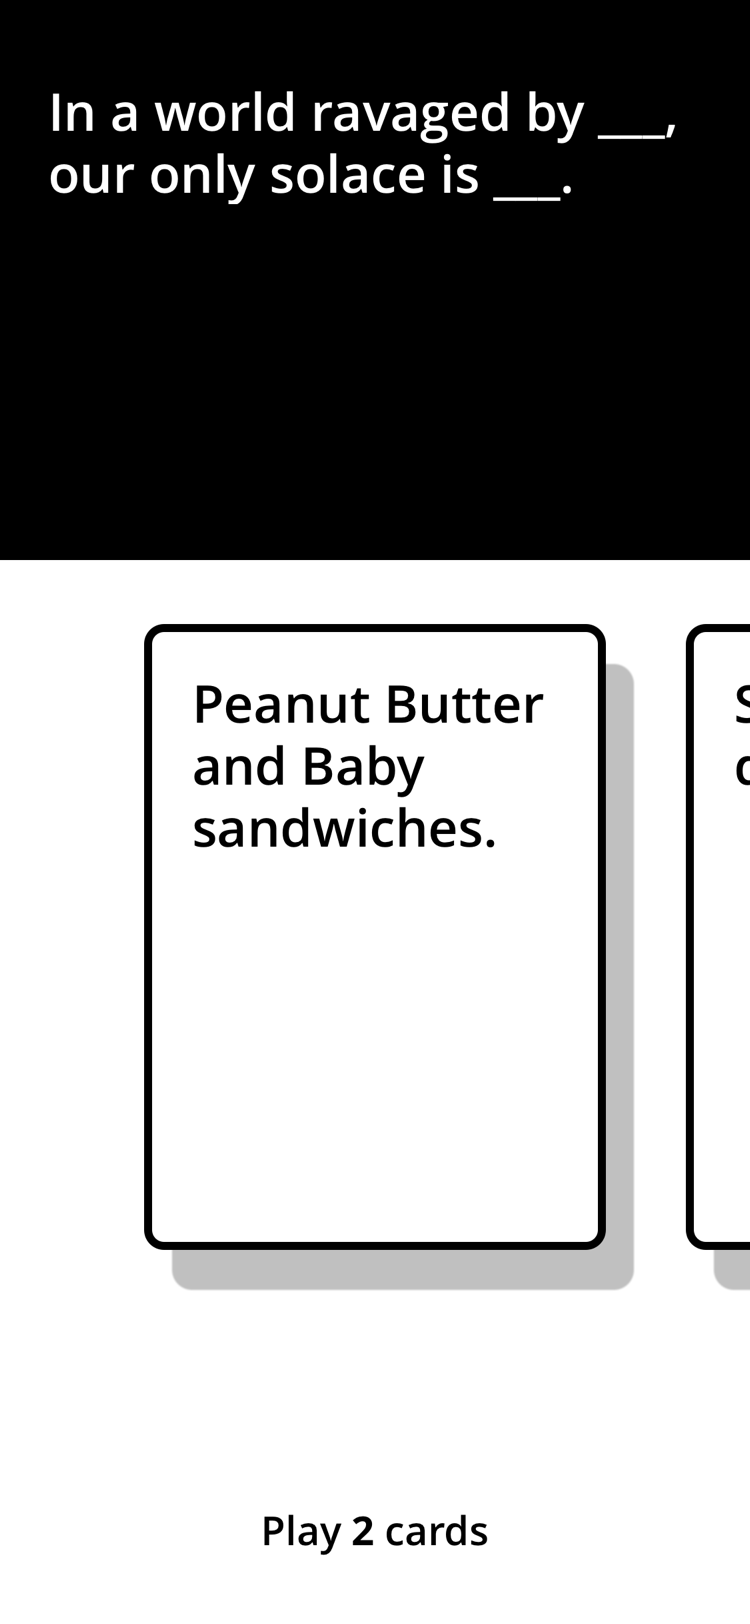
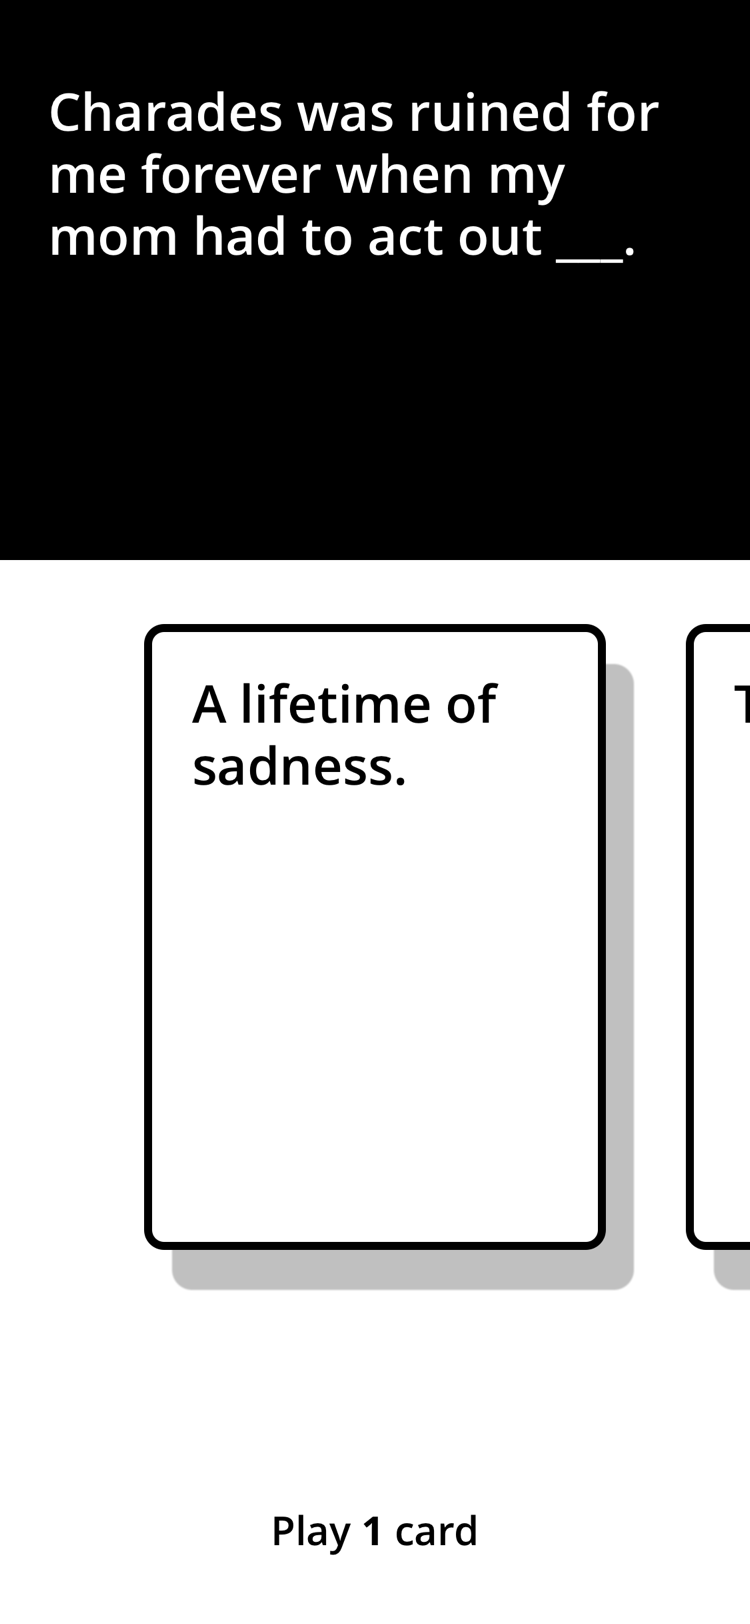
add to git ignore

diff --git a/Cards Against Humanity.framer/framer/framer.vekter.js b/Cards Against Humanity.framer/framer/framer.vekter.js
@@ -1,1 +1,1 @@
-(function(scope) {var GameScreen = new Layer({"name":"GameScreen","backgroundColor":"rgba(255,255,255,1)","width":375,"x":840,"height":812,"constraintValues":{"left":840,"height":812,"heightFactor":1,"width":375,"widthFactor":1},"blending":"normal","clip":true,"borderStyle":"solid"});var blackCard = new Layer({"parent":GameScreen,"name":"blackCard","backgroundColor":"#000000","width":375,"height":280,"constraintValues":{"height":280,"centerAnchorX":0.5,"width":375,"right":0,"centerAnchorY":0.17241379310344829},"blending":"normal","clip":false,"borderStyle":"solid"});var __layer_0__ = new TextLayer({"parent":blackCard,"backgroundColor":null,"width":327,"x":24,"styledText":{"blocks":[{"inlineStyles":[{"css":{"fontSize":"26px","WebkitTextFillColor":"hsl(0, 0%, 100%)","letterSpacing":"0px","fontWeight":600,"lineHeight":"1.2","tabSize":4,"fontFamily":"\"OpenSans-Semibold\", \"Open Sans\", sans-serif"},"startIndex":0,"endIndex":9}],"text":"Card Text"}]},"height":216,"constraintValues":{"left":24,"height":216,"centerAnchorX":0.5,"width":327,"right":24,"top":40,"centerAnchorY":0.51071428571428568},"blending":"normal","autoSize":false,"y":40});var playCardsText = new TextLayer({"parent":GameScreen,"name":"playCardsText","backgroundColor":null,"width":335,"x":20,"styledText":{"blocks":[{"inlineStyles":[{"startIndex":0,"endIndex":5,"css":{"fontSize":"20px","WebkitTextFillColor":"#000000","letterSpacing":"0px","fontWeight":600,"lineHeight":"1.2","tabSize":4,"fontFamily":"\"OpenSans-Semibold\", \"Open Sans\", sans-serif"}},{"startIndex":5,"endIndex":15,"css":{"fontSize":"20px","WebkitTextFillColor":"#000000","letterSpacing":"0px","fontWeight":700,"lineHeight":"1.2","tabSize":4,"fontFamily":"\"OpenSans-Bold\", \"Open Sans\", sans-serif"}},{"startIndex":15,"endIndex":25,"css":{"fontSize":"20px","WebkitTextFillColor":"#000000","letterSpacing":"0px","fontWeight":600,"lineHeight":"1.2","tabSize":4,"fontFamily":"\"OpenSans-Semibold\", \"Open Sans\", sans-serif"}}],"text":"Play {numCards} card{plu}"}],"alignment":"center"},"height":24,"constraintValues":{"left":20,"height":24,"centerAnchorX":0.5,"width":335,"bottom":35,"right":20,"top":null,"centerAnchorY":0.94211822660098521},"blending":"normal","autoSize":false,"y":753});var ActionButton = new Layer({"parent":GameScreen,"name":"ActionButton","backgroundColor":"rgb(0, 0, 0)","width":335,"x":20,"height":54,"constraintValues":{"left":20,"height":54,"centerAnchorX":0.5,"width":335,"bottom":20,"right":20,"top":null,"centerAnchorY":0.94211822660098521},"blending":"normal","borderRadius":16,"opacity":0,"clip":false,"borderStyle":"solid","y":738});var __layer_1__ = new TextLayer({"parent":ActionButton,"backgroundColor":null,"width":68,"x":133,"styledText":{"blocks":[{"inlineStyles":[{"css":{"fontSize":"20px","WebkitTextFillColor":"hsl(0, 0%, 100%)","whiteSpace":"pre","fontWeight":600,"letterSpacing":"0px","tabSize":4,"fontFamily":"\"OpenSans-Semibold\", \"Open Sans\", sans-serif","lineHeight":"1.2"},"startIndex":0,"endIndex":6}],"text":"Button"}],"alignment":"center"},"height":24,"constraintValues":{"left":null,"height":24,"centerAnchorX":0.49850746268656715,"width":68,"top":null,"centerAnchorY":0.5},"blending":"normal","autoSize":true,"y":15});var __layer_2__ = new Layer({"backgroundColor":"rgba(255,255,255,1)","width":231,"x":492,"height":313,"constraintValues":null,"blending":"normal","clip":true,"borderStyle":"solid"});var whiteCard = new Layer({"parent":__layer_2__,"name":"whiteCard","shadows":[{"spread":0,"x":14,"type":"box","y":20,"blur":1,"color":"rgba(0,0,0,0.25)"}],"borderWidth":4,"backgroundColor":"hsl(0, 0%, 100%)","width":231,"borderColor":"#000000","height":313,"constraintValues":{"height":313,"centerAnchorX":0.5,"width":231,"bottom":0,"right":0,"centerAnchorY":0.5},"blending":"normal","borderRadius":10,"clip":false,"borderStyle":"solid"});var __layer_3__ = new TextLayer({"parent":whiteCard,"backgroundColor":null,"width":183,"x":24,"styledText":{"blocks":[{"inlineStyles":[{"css":{"fontSize":"26px","WebkitTextFillColor":"#000000","letterSpacing":"0px","fontWeight":600,"lineHeight":"1.2","tabSize":4,"fontFamily":"\"OpenSans-Semibold\", \"Open Sans\", sans-serif"},"startIndex":0,"endIndex":9}],"text":"Card Text"}]},"height":265,"constraintValues":{"left":24,"height":265,"centerAnchorX":0.48917748917748916,"width":183,"bottom":24,"right":24,"top":24,"centerAnchorY":0.48562300319488816},"blending":"normal","autoSize":false,"y":24});var UndoButton = new Layer({"name":"UndoButton","backgroundColor":"#DDDDDD","width":231,"x":492,"height":54,"constraintValues":null,"blending":"normal","borderRadius":16,"clip":false,"borderStyle":"solid","y":344});var __layer_4__ = new TextLayer({"parent":UndoButton,"backgroundColor":null,"width":54,"x":88,"styledText":{"blocks":[{"inlineStyles":[{"css":{"fontSize":"20px","WebkitTextFillColor":"#000000","whiteSpace":"pre","fontWeight":600,"letterSpacing":"0px","tabSize":4,"fontFamily":"\"OpenSans-Semibold\", \"Open Sans\", sans-serif","lineHeight":"1.2"},"startIndex":0,"endIndex":4}],"text":"Undo"}],"alignment":"center"},"height":24,"constraintValues":{"left":null,"height":24,"centerAnchorX":0.49850746268656715,"width":54,"top":null,"centerAnchorY":0.5},"blending":"normal","autoSize":true,"y":15});var setupScreen = new Layer({"name":"setupScreen","backgroundColor":"rgba(255,255,255,1)","width":375,"height":812,"constraintValues":{"height":812,"heightFactor":1,"width":375,"widthFactor":1},"blending":"normal","clip":true,"borderStyle":"solid"});var __layer_5__ = new TextLayer({"parent":setupScreen,"name":"namePromt","backgroundColor":null,"width":197,"x":89,"styledText":{"blocks":[{"inlineStyles":[{"css":{"fontSize":"20px","WebkitTextFillColor":"#000000","whiteSpace":"pre","fontWeight":600,"letterSpacing":"0px","tabSize":4,"fontFamily":"\"OpenSans-Semibold\", \"Open Sans\", sans-serif","lineHeight":"1.2"},"startIndex":0,"endIndex":16}],"text":"Gimme your name…"}],"alignment":"center"},"height":24,"constraintValues":{"left":null,"height":24,"centerAnchorX":0.5,"width":197,"top":111,"centerAnchorY":0.15147783251231528},"blending":"normal","autoSize":true,"y":111});var __layer_6__ = new Layer({"parent":setupScreen,"name":"joinButton","backgroundColor":"rgb(0, 0, 0)","width":335,"x":20,"height":54,"constraintValues":{"left":20,"height":54,"centerAnchorX":0.5,"width":335,"bottom":20,"right":20,"top":null,"centerAnchorY":0.94211822660098521},"blending":"normal","borderRadius":16,"clip":false,"borderStyle":"solid","y":738});var __layer_7__ = new TextLayer({"parent":__layer_6__,"backgroundColor":null,"width":38,"x":148,"styledText":{"blocks":[{"inlineStyles":[{"css":{"fontSize":"20px","WebkitTextFillColor":"hsl(0, 0%, 100%)","whiteSpace":"pre","fontWeight":600,"letterSpacing":"0px","tabSize":4,"fontFamily":"\"OpenSans-Semibold\", \"Open Sans\", sans-serif","lineHeight":"1.2"},"startIndex":0,"endIndex":4}],"text":"Join"}],"alignment":"center"},"height":24,"constraintValues":{"left":null,"height":24,"centerAnchorX":0.49850746268656715,"width":38,"top":null,"centerAnchorY":0.5},"blending":"normal","autoSize":true,"y":15});if(__layer_5__ !== undefined){__layer_5__.__framerInstanceInfo = {"framerClass":"TextLayer","hash":"#vekter|__layer_5__","vekterClass":"TextNode","text":"Gimme your name…"}};if(GameScreen !== undefined){GameScreen.__framerInstanceInfo = {"deviceName":"Apple iPhone X","framerClass":"Layer","hash":"#vekter|GameScreen","targetName":"GameScreen","vekterClass":"FrameNode","deviceType":"apple-iphone-x-space-gray"}};if(whiteCard !== undefined){whiteCard.__framerInstanceInfo = {"framerClass":"Layer","hash":"#vekter|whiteCard","targetName":"whiteCard","vekterClass":"FrameNode"}};if(__layer_7__ !== undefined){__layer_7__.__framerInstanceInfo = {"framerClass":"TextLayer","hash":"#vekter|__layer_7__","vekterClass":"TextNode","text":"Join"}};if(__layer_2__ !== undefined){__layer_2__.__framerInstanceInfo = {"hash":"#vekter|__layer_2__","vekterClass":"FrameNode","framerClass":"Layer"}};if(playCardsText !== undefined){playCardsText.__framerInstanceInfo = {"framerClass":"TextLayer","hash":"#vekter|playCardsText","targetName":"playCardsText","vekterClass":"TextNode","text":"Play {numCards} card{plu}"}};if(__layer_0__ !== undefined){__layer_0__.__framerInstanceInfo = {"framerClass":"TextLayer","hash":"#vekter|__layer_0__","vekterClass":"TextNode","text":"Card Text"}};if(UndoButton !== undefined){UndoButton.__framerInstanceInfo = {"framerClass":"Layer","hash":"#vekter|UndoButton","targetName":"UndoButton","vekterClass":"FrameNode"}};if(setupScreen !== undefined){setupScreen.__framerInstanceInfo = {"deviceName":"Apple iPhone X","framerClass":"Layer","hash":"#vekter|setupScreen","targetName":"setupScreen","vekterClass":"FrameNode","deviceType":"apple-iphone-x-space-gray"}};if(ActionButton !== undefined){ActionButton.__framerInstanceInfo = {"framerClass":"Layer","hash":"#vekter|ActionButton","targetName":"ActionButton","vekterClass":"FrameNode"}};if(__layer_1__ !== undefined){__layer_1__.__framerInstanceInfo = {"framerClass":"TextLayer","hash":"#vekter|__layer_1__","vekterClass":"TextNode","text":"Button"}};if(__layer_4__ !== undefined){__layer_4__.__framerInstanceInfo = {"framerClass":"TextLayer","hash":"#vekter|__layer_4__","vekterClass":"TextNode","text":"Undo"}};if(__layer_6__ !== undefined){__layer_6__.__framerInstanceInfo = {"hash":"#vekter|__layer_6__","vekterClass":"FrameNode","framerClass":"Layer"}};if(__layer_3__ !== undefined){__layer_3__.__framerInstanceInfo = {"framerClass":"TextLayer","hash":"#vekter|__layer_3__","vekterClass":"TextNode","text":"Card Text"}};if(blackCard !== undefined){blackCard.__framerInstanceInfo = {"framerClass":"Layer","hash":"#vekter|blackCard","targetName":"blackCard","vekterClass":"FrameNode"}};if (scope["__vekterVariables"]) { scope["__vekterVariables"].map(function(variable) { delete scope[variable] } ) };Object.assign(scope, {GameScreen, blackCard, playCardsText, ActionButton, whiteCard, UndoButton, setupScreen});scope["__vekterVariables"] = ["GameScreen", "blackCard", "playCardsText", "ActionButton", "whiteCard", "UndoButton", "setupScreen"];if (typeof Framer.CurrentContext.layout === 'function') {Framer.CurrentContext.layout()};})(window);
+(function(scope) {var GameScreen = new Layer({"name":"GameScreen","backgroundColor":"rgba(255,255,255,1)","width":375,"x":840,"height":812,"constraintValues":{"left":840,"height":812,"heightFactor":1,"width":375,"widthFactor":1},"blending":"normal","clip":true,"borderStyle":"solid"});var blackCard = new Layer({"parent":GameScreen,"name":"blackCard","backgroundColor":"#000000","width":375,"height":280,"constraintValues":{"height":280,"centerAnchorX":0.5,"width":375,"right":0,"centerAnchorY":0.17241379310344829},"blending":"normal","clip":false,"borderStyle":"solid"});var __layer_0__ = new TextLayer({"parent":blackCard,"backgroundColor":null,"width":327,"x":24,"styledText":{"blocks":[{"inlineStyles":[{"startIndex":0,"endIndex":9,"css":{"fontSize":"26px","WebkitTextFillColor":"hsl(0, 0%, 100%)","letterSpacing":"0px","fontWeight":400,"lineHeight":"1.2","tabSize":4,"fontFamily":"\"OpenSans-Semibold\", sans-serif"}}],"text":"Card Text"}]},"height":216,"constraintValues":{"left":24,"height":216,"centerAnchorX":0.5,"width":327,"right":24,"top":40,"centerAnchorY":0.51071428571428568},"blending":"normal","autoSize":false,"y":40});var playCardsText = new TextLayer({"parent":GameScreen,"name":"playCardsText","backgroundColor":null,"width":335,"x":20,"styledText":{"blocks":[{"inlineStyles":[{"startIndex":0,"endIndex":5,"css":{"fontSize":"20px","WebkitTextFillColor":"#000000","letterSpacing":"0px","fontWeight":400,"lineHeight":"1.2","tabSize":4,"fontFamily":"\"OpenSans-Semibold\", sans-serif"}},{"startIndex":5,"endIndex":15,"css":{"fontSize":"20px","WebkitTextFillColor":"#000000","letterSpacing":"0px","fontWeight":700,"lineHeight":"1.2","tabSize":4,"fontFamily":"\"OpenSans-Bold\", \"Open Sans\", sans-serif"}},{"startIndex":15,"endIndex":25,"css":{"fontSize":"20px","WebkitTextFillColor":"#000000","letterSpacing":"0px","fontWeight":400,"lineHeight":"1.2","tabSize":4,"fontFamily":"\"OpenSans-Semibold\", sans-serif"}}],"text":"Play {numCards} card{plu}"}],"alignment":"center"},"height":24,"constraintValues":{"left":20,"height":24,"centerAnchorX":0.5,"width":335,"bottom":35,"right":20,"top":null,"centerAnchorY":0.94211822660098521},"blending":"normal","autoSize":false,"y":753});var ActionButton = new Layer({"parent":GameScreen,"name":"ActionButton","backgroundColor":"rgb(0, 0, 0)","width":335,"x":20,"height":54,"constraintValues":{"left":20,"height":54,"centerAnchorX":0.5,"width":335,"bottom":20,"right":20,"top":null,"centerAnchorY":0.94211822660098521},"blending":"normal","borderRadius":16,"opacity":0,"clip":false,"borderStyle":"solid","y":738});var __layer_1__ = new TextLayer({"parent":ActionButton,"backgroundColor":null,"width":68,"x":133,"styledText":{"blocks":[{"inlineStyles":[{"startIndex":0,"endIndex":6,"css":{"fontSize":"20px","WebkitTextFillColor":"hsl(0, 0%, 100%)","whiteSpace":"pre","fontWeight":400,"letterSpacing":"0px","tabSize":4,"fontFamily":"\"OpenSans-Semibold\", sans-serif","lineHeight":"1.2"}}],"text":"Button"}],"alignment":"center"},"height":24,"constraintValues":{"left":null,"height":24,"centerAnchorX":0.49850746268656715,"width":68,"top":null,"centerAnchorY":0.5},"blending":"normal","autoSize":true,"y":15});var __layer_2__ = new Layer({"backgroundColor":"rgba(255,255,255,1)","width":231,"x":492,"height":313,"constraintValues":null,"blending":"normal","clip":true,"borderStyle":"solid"});var whiteCard = new Layer({"parent":__layer_2__,"name":"whiteCard","shadows":[{"spread":0,"x":14,"type":"box","y":20,"blur":1,"color":"rgba(0,0,0,0.25)"}],"borderWidth":4,"backgroundColor":"hsl(0, 0%, 100%)","width":231,"borderColor":"#000000","height":313,"constraintValues":{"height":313,"centerAnchorX":0.5,"width":231,"bottom":0,"right":0,"centerAnchorY":0.5},"blending":"normal","borderRadius":10,"clip":false,"borderStyle":"solid"});var __layer_3__ = new TextLayer({"parent":whiteCard,"backgroundColor":null,"width":183,"x":24,"styledText":{"blocks":[{"inlineStyles":[{"startIndex":0,"endIndex":9,"css":{"fontSize":"26px","WebkitTextFillColor":"#000000","letterSpacing":"0px","fontWeight":400,"lineHeight":"1.2","tabSize":4,"fontFamily":"\"OpenSans-Semibold\", sans-serif"}}],"text":"Card Text"}]},"height":265,"constraintValues":{"left":24,"height":265,"centerAnchorX":0.48917748917748916,"width":183,"bottom":24,"right":24,"top":24,"centerAnchorY":0.48562300319488816},"blending":"normal","autoSize":false,"y":24});var UndoButton = new Layer({"name":"UndoButton","backgroundColor":"#DDDDDD","width":231,"x":492,"height":54,"constraintValues":null,"blending":"normal","borderRadius":16,"clip":false,"borderStyle":"solid","y":344});var __layer_4__ = new TextLayer({"parent":UndoButton,"backgroundColor":null,"width":54,"x":88,"styledText":{"blocks":[{"inlineStyles":[{"startIndex":0,"endIndex":4,"css":{"fontSize":"20px","WebkitTextFillColor":"#000000","whiteSpace":"pre","fontWeight":400,"letterSpacing":"0px","tabSize":4,"fontFamily":"\"OpenSans-Semibold\", sans-serif","lineHeight":"1.2"}}],"text":"Undo"}],"alignment":"center"},"height":24,"constraintValues":{"left":null,"height":24,"centerAnchorX":0.49850746268656715,"width":54,"top":null,"centerAnchorY":0.5},"blending":"normal","autoSize":true,"y":15});var setupScreen = new Layer({"name":"setupScreen","backgroundColor":"rgba(255,255,255,1)","width":375,"height":812,"constraintValues":{"height":812,"heightFactor":1,"width":375,"widthFactor":1},"blending":"normal","clip":true,"borderStyle":"solid"});var __layer_5__ = new TextLayer({"parent":setupScreen,"name":"namePromt","backgroundColor":null,"width":197,"x":89,"styledText":{"blocks":[{"inlineStyles":[{"startIndex":0,"endIndex":16,"css":{"fontSize":"20px","WebkitTextFillColor":"#000000","whiteSpace":"pre","fontWeight":400,"letterSpacing":"0px","tabSize":4,"fontFamily":"\"OpenSans-Semibold\", sans-serif","lineHeight":"1.2"}}],"text":"Gimme your name…"}],"alignment":"center"},"height":24,"constraintValues":{"left":null,"height":24,"centerAnchorX":0.5,"width":197,"top":111,"centerAnchorY":0.15147783251231528},"blending":"normal","autoSize":true,"y":111});var __layer_6__ = new Layer({"parent":setupScreen,"name":"joinButton","backgroundColor":"rgb(0, 0, 0)","width":335,"x":20,"height":54,"constraintValues":{"left":20,"height":54,"centerAnchorX":0.5,"width":335,"bottom":20,"right":20,"top":null,"centerAnchorY":0.94211822660098521},"blending":"normal","borderRadius":16,"clip":false,"borderStyle":"solid","y":738});var __layer_7__ = new TextLayer({"parent":__layer_6__,"backgroundColor":null,"width":38,"x":148,"styledText":{"blocks":[{"inlineStyles":[{"startIndex":0,"endIndex":4,"css":{"fontSize":"20px","WebkitTextFillColor":"hsl(0, 0%, 100%)","whiteSpace":"pre","fontWeight":400,"letterSpacing":"0px","tabSize":4,"fontFamily":"\"OpenSans-Semibold\", sans-serif","lineHeight":"1.2"}}],"text":"Join"}],"alignment":"center"},"height":24,"constraintValues":{"left":null,"height":24,"centerAnchorX":0.49850746268656715,"width":38,"top":null,"centerAnchorY":0.5},"blending":"normal","autoSize":true,"y":15});if(__layer_5__ !== undefined){__layer_5__.__framerInstanceInfo = {"framerClass":"TextLayer","hash":"#vekter|__layer_5__","vekterClass":"TextNode","text":"Gimme your name…"}};if(GameScreen !== undefined){GameScreen.__framerInstanceInfo = {"deviceName":"Apple iPhone X","framerClass":"Layer","hash":"#vekter|GameScreen","targetName":"GameScreen","vekterClass":"FrameNode","deviceType":"apple-iphone-x-space-gray"}};if(whiteCard !== undefined){whiteCard.__framerInstanceInfo = {"framerClass":"Layer","hash":"#vekter|whiteCard","targetName":"whiteCard","vekterClass":"FrameNode"}};if(__layer_7__ !== undefined){__layer_7__.__framerInstanceInfo = {"framerClass":"TextLayer","hash":"#vekter|__layer_7__","vekterClass":"TextNode","text":"Join"}};if(__layer_2__ !== undefined){__layer_2__.__framerInstanceInfo = {"hash":"#vekter|__layer_2__","vekterClass":"FrameNode","framerClass":"Layer"}};if(playCardsText !== undefined){playCardsText.__framerInstanceInfo = {"framerClass":"TextLayer","hash":"#vekter|playCardsText","targetName":"playCardsText","vekterClass":"TextNode","text":"Play {numCards} card{plu}"}};if(__layer_0__ !== undefined){__layer_0__.__framerInstanceInfo = {"framerClass":"TextLayer","hash":"#vekter|__layer_0__","vekterClass":"TextNode","text":"Card Text"}};if(UndoButton !== undefined){UndoButton.__framerInstanceInfo = {"framerClass":"Layer","hash":"#vekter|UndoButton","targetName":"UndoButton","vekterClass":"FrameNode"}};if(setupScreen !== undefined){setupScreen.__framerInstanceInfo = {"deviceName":"Apple iPhone X","framerClass":"Layer","hash":"#vekter|setupScreen","targetName":"setupScreen","vekterClass":"FrameNode","deviceType":"apple-iphone-x-space-gray"}};if(ActionButton !== undefined){ActionButton.__framerInstanceInfo = {"framerClass":"Layer","hash":"#vekter|ActionButton","targetName":"ActionButton","vekterClass":"FrameNode"}};if(__layer_1__ !== undefined){__layer_1__.__framerInstanceInfo = {"framerClass":"TextLayer","hash":"#vekter|__layer_1__","vekterClass":"TextNode","text":"Button"}};if(__layer_4__ !== undefined){__layer_4__.__framerInstanceInfo = {"framerClass":"TextLayer","hash":"#vekter|__layer_4__","vekterClass":"TextNode","text":"Undo"}};if(__layer_6__ !== undefined){__layer_6__.__framerInstanceInfo = {"hash":"#vekter|__layer_6__","vekterClass":"FrameNode","framerClass":"Layer"}};if(__layer_3__ !== undefined){__layer_3__.__framerInstanceInfo = {"framerClass":"TextLayer","hash":"#vekter|__layer_3__","vekterClass":"TextNode","text":"Card Text"}};if(blackCard !== undefined){blackCard.__framerInstanceInfo = {"framerClass":"Layer","hash":"#vekter|blackCard","targetName":"blackCard","vekterClass":"FrameNode"}};if (scope["__vekterVariables"]) { scope["__vekterVariables"].map(function(variable) { delete scope[variable] } ) };Object.assign(scope, {GameScreen, blackCard, playCardsText, ActionButton, whiteCard, UndoButton, setupScreen});scope["__vekterVariables"] = ["GameScreen", "blackCard", "playCardsText", "ActionButton", "whiteCard", "UndoButton", "setupScreen"];if (typeof Framer.CurrentContext.layout === 'function') {Framer.CurrentContext.layout()};})(window);
